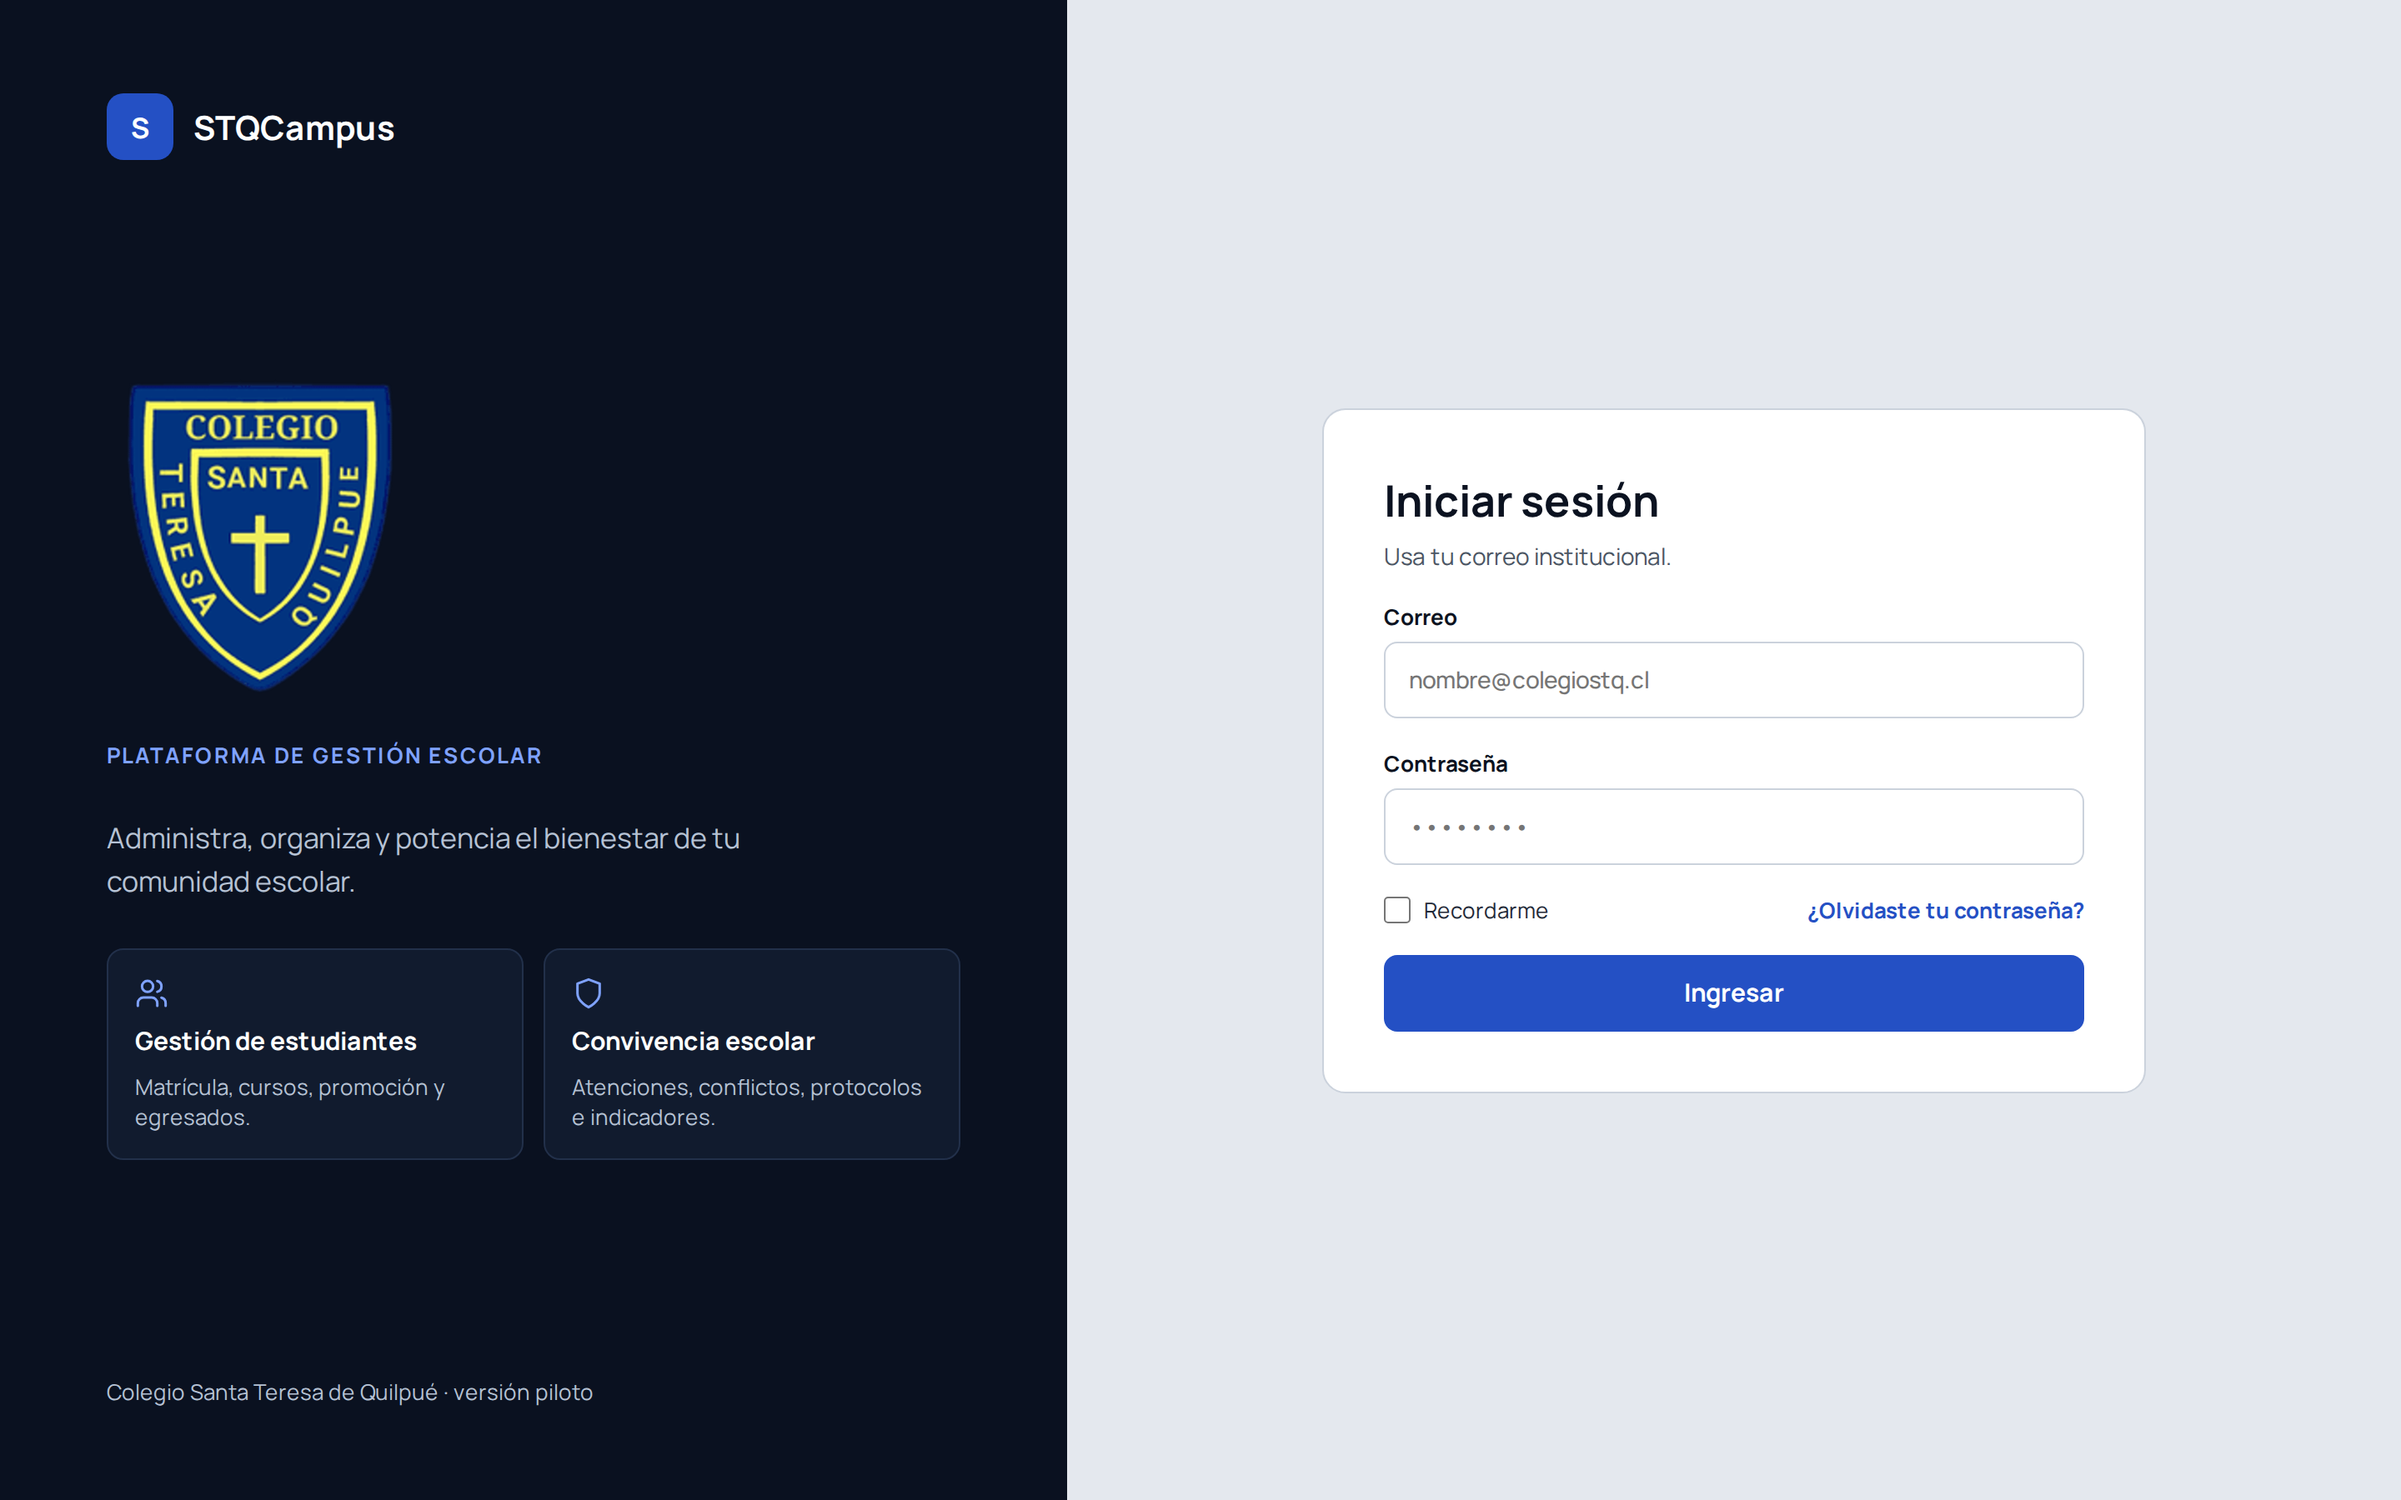
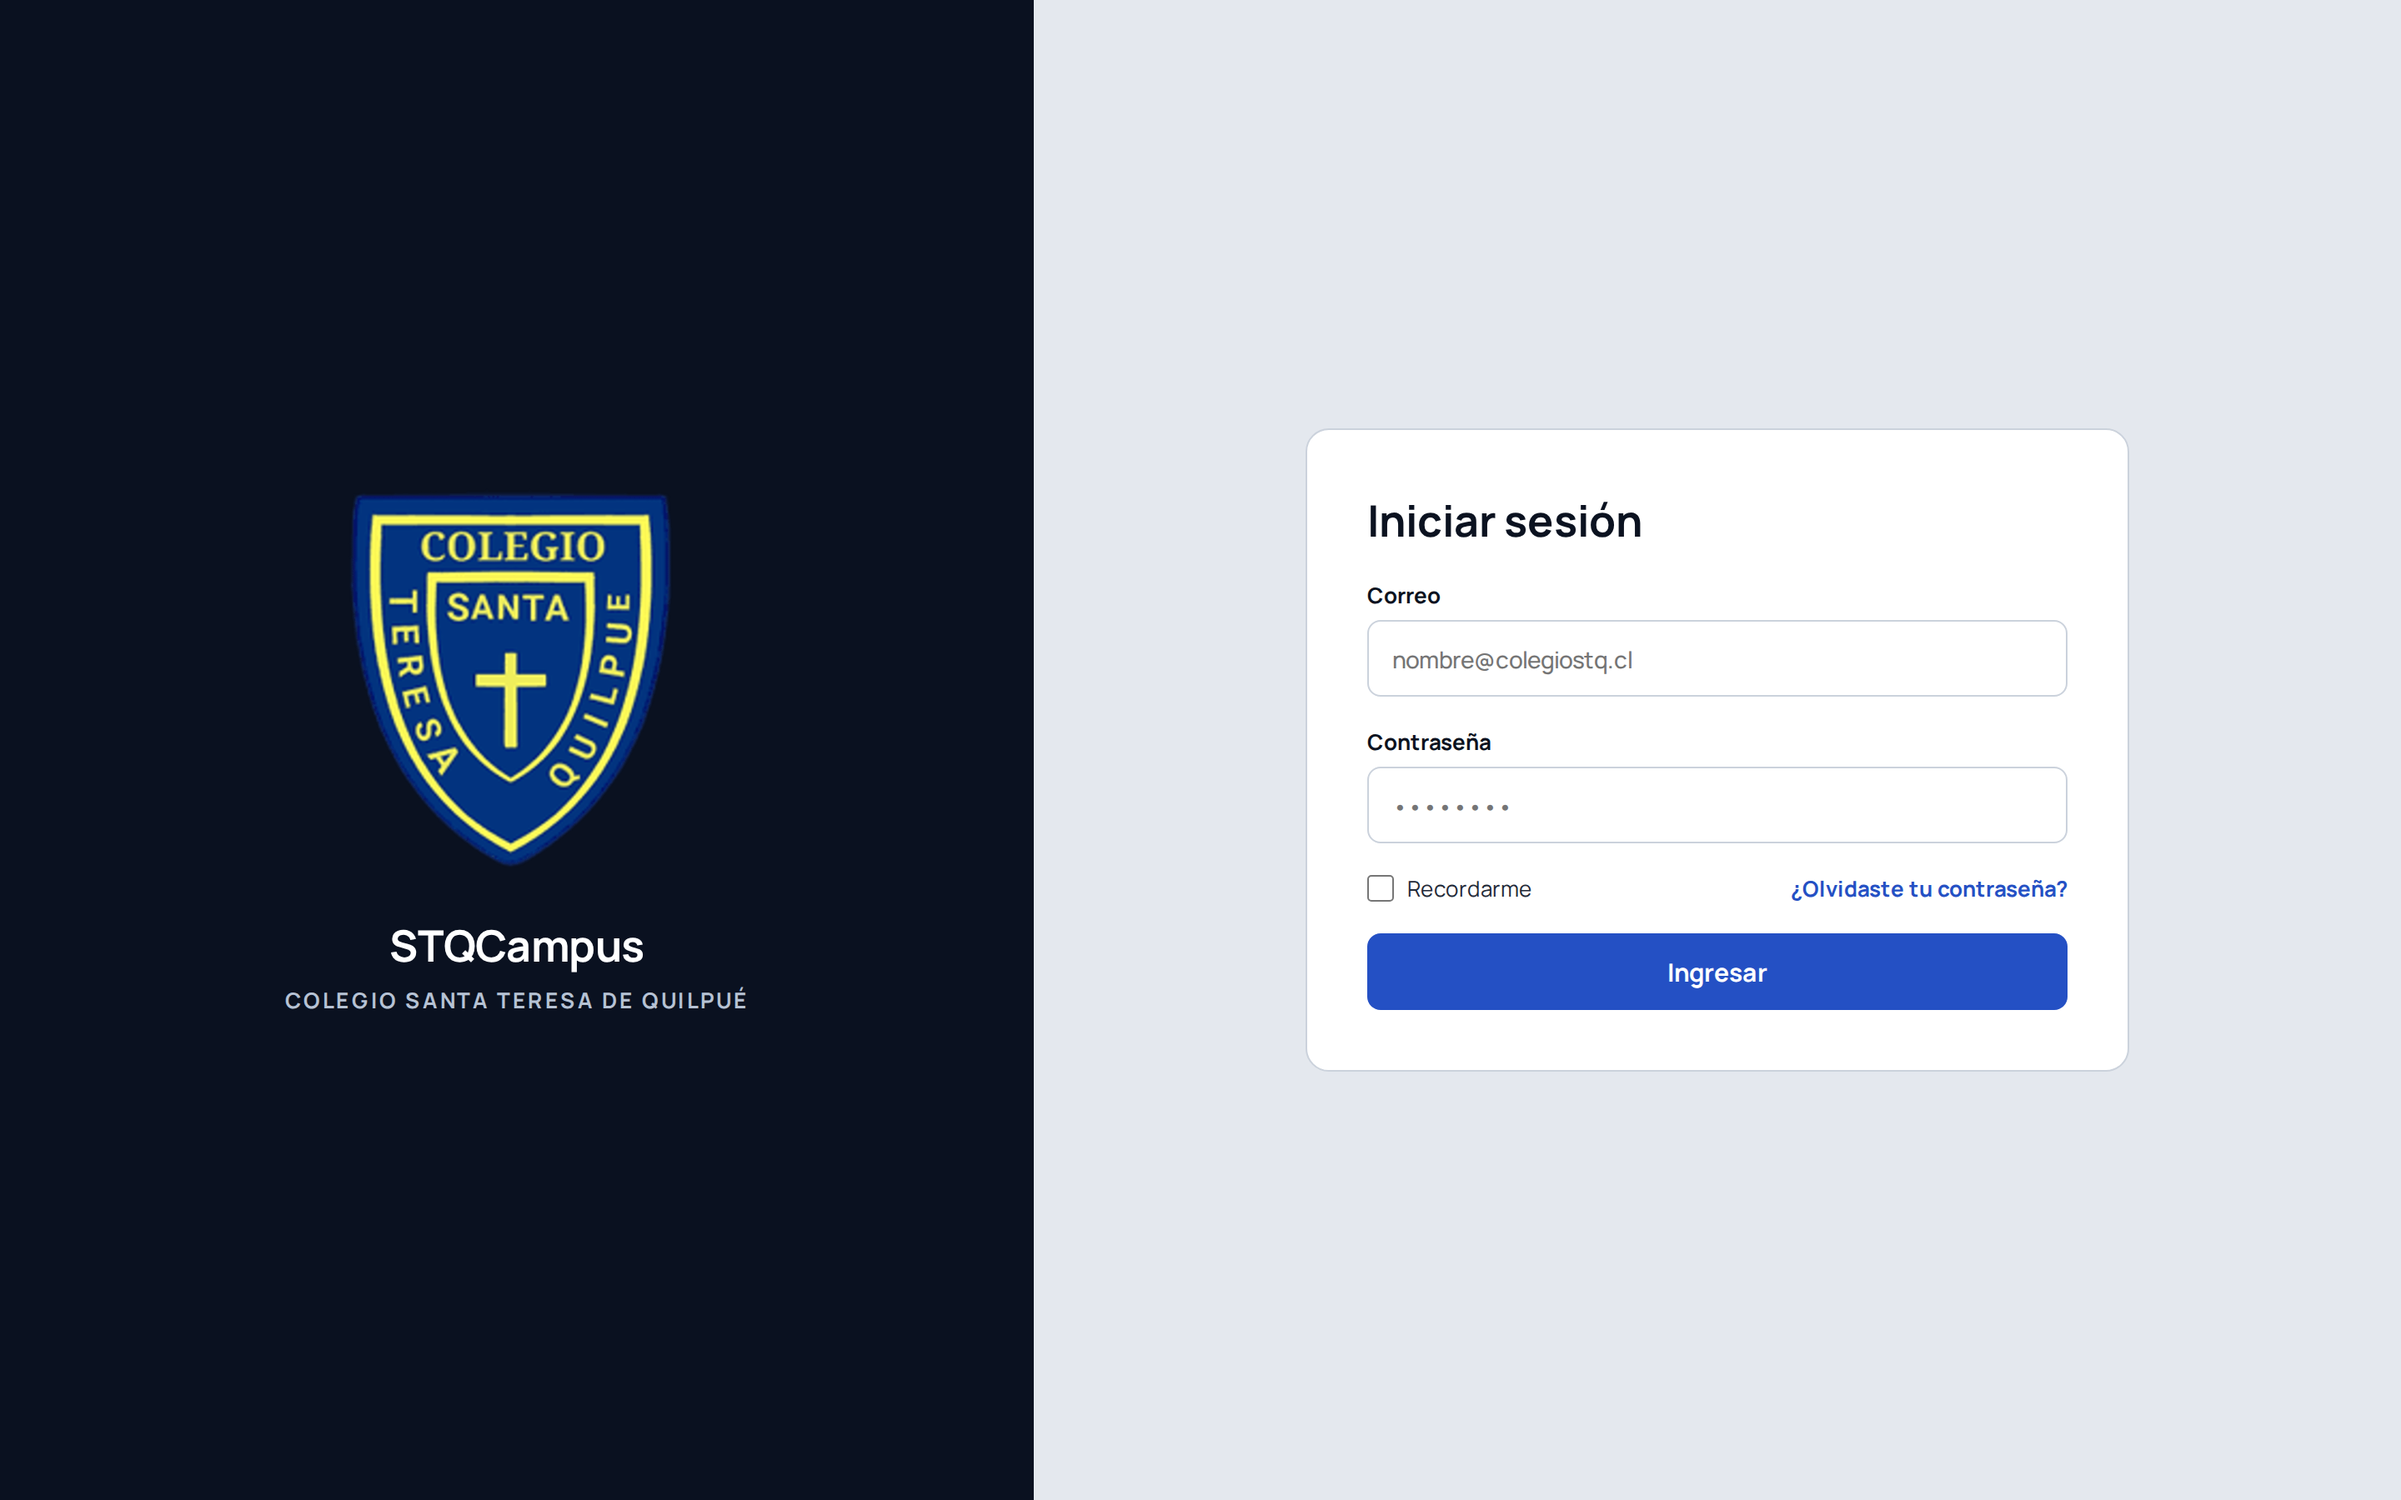
Cambio de Inicio de sesion

diff --git a/pantallas/1_General_01_Inicio_de_sesion.html b/pantallas/1_General_01_Inicio_de_sesion.html
@@ -20,28 +20,17 @@ body{display:flex;justify-content:center}
 <body>
 <div id="barra-prototipo" style="position:fixed;top:12px;left:12px;z-index:99;display:flex;gap:8px;align-items:center;background:#0A1120;color:#E2E8F0;border-radius:8px;padding:6px 10px;font:600 12px Manrope,sans-serif;box-shadow:0 4px 14px rgba(0,0,0,.25)"><a href="../index.html" style="color:#7FA2FF;text-decoration:none">◀ Todas las pantallas</a><span style="opacity:.6">Inicio de sesión</span></div>
 <div style="width: 1440px; height: 900px; display: flex; background: #E4E8EE; overflow: hidden;">
-<div style="width: 640px; flex-shrink: 0; background: #0A1120; color: #E2E8F0; padding: 56px 64px; box-sizing: border-box; display: flex; flex-direction: column; gap: 28px;">
-<div style="display: flex; align-items: center; gap: 12px;"><div style="width: 40px; height: 40px; border-radius: 10px; background: #2450C4; display: flex; align-items: center; justify-content: center; color: #FFFFFF; font-weight: 700; font-size: 17px;">S</div><span style="font-weight: 700; font-size: 20px; color: #FFFFFF;">STQCampus</span></div>
-<div style="flex-grow: 1;"></div>
-<img src="logo-colegio.png" alt="Escudo del Colegio Santa Teresa de Quilpué" style="width: 190px; height: 190px; object-fit: contain;">
-<span style="font-size: 13px; font-weight: 700; letter-spacing: 0.08em; color: #7FA2FF;">PLATAFORMA DE GESTIÓN ESCOLAR</span>
-<p style="margin: 0; font-size: 17px; line-height: 1.5; color: #B6C2D4; max-width: 460px;">Administra, organiza y potencia el bienestar de tu comunidad escolar.</p>
-<div style="display: grid; grid-template-columns: repeat(2, minmax(0, 1fr)); gap: 12px;">
-<div style="padding: 16px; border-radius: 10px; background: #111B2E; border: 1px solid #22304A; display: flex; flex-direction: column; gap: 8px;"><svg width="20" height="20" viewBox="0 0 24 24" fill="none" stroke="#7FA2FF" stroke-width="1.8" stroke-linecap="round" stroke-linejoin="round"><path d="M16 21v-2a4 4 0 0 0-4-4H6a4 4 0 0 0-4 4v2"/><circle cx="9" cy="7" r="4"/><path d="M22 21v-2a4 4 0 0 0-3-3.87M16 3.13a4 4 0 0 1 0 7.75"/></svg><span style="font-size: 15px; font-weight: 700; color: #FFFFFF;">Gestión de estudiantes</span><span style="font-size: 13px; color: #B6C2D4;">Matrícula, cursos, promoción y egresados.</span></div>
-<div style="padding: 16px; border-radius: 10px; background: #111B2E; border: 1px solid #22304A; display: flex; flex-direction: column; gap: 8px;"><svg width="20" height="20" viewBox="0 0 24 24" fill="none" stroke="#7FA2FF" stroke-width="1.8" stroke-linecap="round" stroke-linejoin="round"><path d="M12 22s8-4 8-10V5l-8-3-8 3v7c0 6 8 10 8 10z"/></svg><span style="font-size: 15px; font-weight: 700; color: #FFFFFF;">Convivencia escolar</span><span style="font-size: 13px; color: #B6C2D4;">Atenciones, conflictos, protocolos e indicadores.</span></div>
+<div style="width: 620px; flex-shrink: 0; background: #0A1120; display: flex; flex-direction: column; align-items: center; justify-content: center; gap: 28px;">
+<img src="logo-colegio.png" alt="Escudo del Colegio Santa Teresa de Quilpué" style="width: 230px; height: 230px; object-fit: contain; ">
+<div style="display: flex; flex-direction: column; align-items: center; gap: 6px;"><span style="font-size: 26px; font-weight: 700; letter-spacing: -0.01em; color: #FFFFFF;">STQCampus</span><span style="font-size: 13px; letter-spacing: 0.1em; font-weight: 700; color: #B6C2D4;">COLEGIO SANTA TERESA DE QUILPUÉ</span></div>
 </div>
-<div style="flex-grow: 1;"></div>
-<span style="font-size: 13px; color: #B6C2D4;">Colegio Santa Teresa de Quilpué · versión piloto</span>
-</div>
-<div style="flex-grow: 1; display: flex; align-items: center; justify-content: center;">
-<form style="width: 420px; padding: 36px; background: #FFFFFF; border: 1px solid #CBD2DC; border-radius: 14px; display: flex; flex-direction: column; gap: 18px;">
-<div style="display: flex; flex-direction: column; gap: 6px;"><h2 style="margin: 0; font-size: 26px; font-weight: 700;">Iniciar sesión</h2><span style="font-size: 14px; color: #4B5563;">Usa tu correo institucional.</span></div>
+<div style="flex-grow: 1; display: flex; align-items: center; justify-content: center;"><form style="width: 420px; padding: 36px; background: #FFFFFF; border: 1px solid #CBD2DC; border-radius: 14px; display: flex; flex-direction: column; gap: 18px;">
+<h1 style="margin: 0; font-size: 26px; font-weight: 700;">Iniciar sesión</h1>
 <label style="display: flex; flex-direction: column; gap: 6px; font-size: 13px; font-weight: 700;">Correo<input placeholder="nombre@colegiostq.cl" style="height: 44px; padding: 0 14px; border: 1px solid #CBD2DC; border-radius: 8px; font: inherit; font-size: 14px; font-weight: 500; color: #0B1220;"></label>
 <label style="display: flex; flex-direction: column; gap: 6px; font-size: 13px; font-weight: 700;">Contraseña<input type="password" placeholder="••••••••" style="height: 44px; padding: 0 14px; border: 1px solid #CBD2DC; border-radius: 8px; font: inherit; font-size: 14px; font-weight: 500; color: #0B1220;"></label>
 <div style="display: flex; justify-content: space-between; align-items: center; font-size: 13px;"><label style="display: flex; align-items: center; gap: 8px; color: #1F2937;"><input type="checkbox" style="width: 16px; height: 16px; margin: 0; accent-color: #2450C4;">Recordarme</label><a href="#" style="font-weight: 700;">¿Olvidaste tu contraseña?</a></div>
 <button style="height: 46px; border: none; border-radius: 8px; background: #2450C4; color: #FFFFFF; font: inherit; font-size: 15px; font-weight: 700; cursor: pointer;" onclick="location.href='1_General_02_Atencion_psicosocial.html'">Ingresar</button>
-</form>
-</div>
+</form></div>
 </div>
 </body>
 </html>
